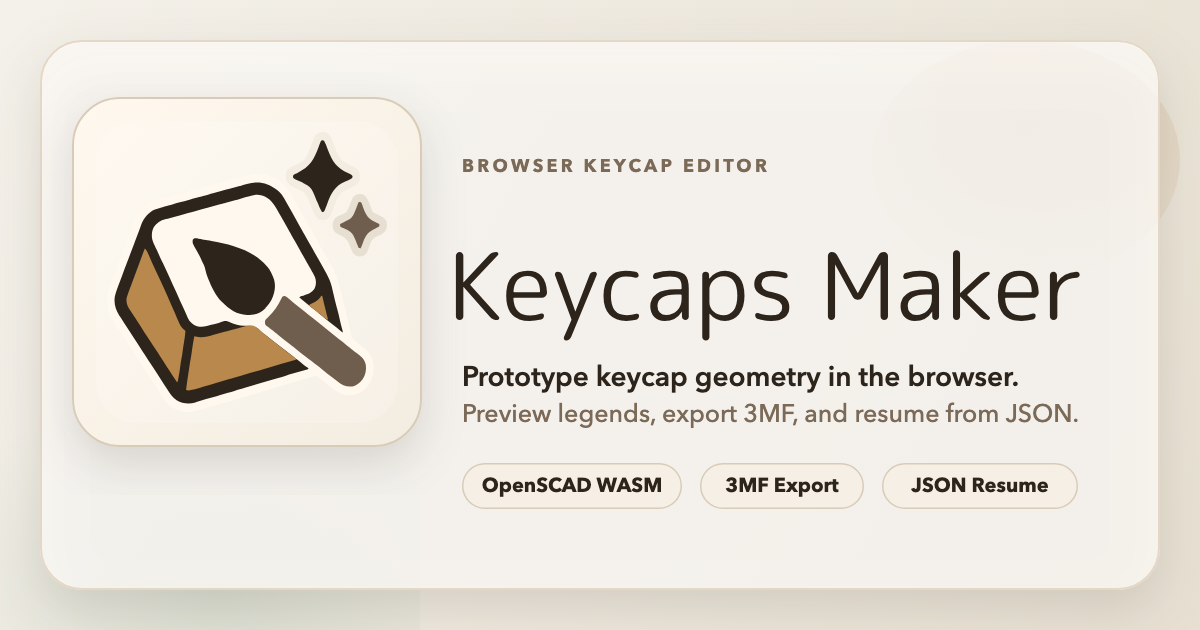
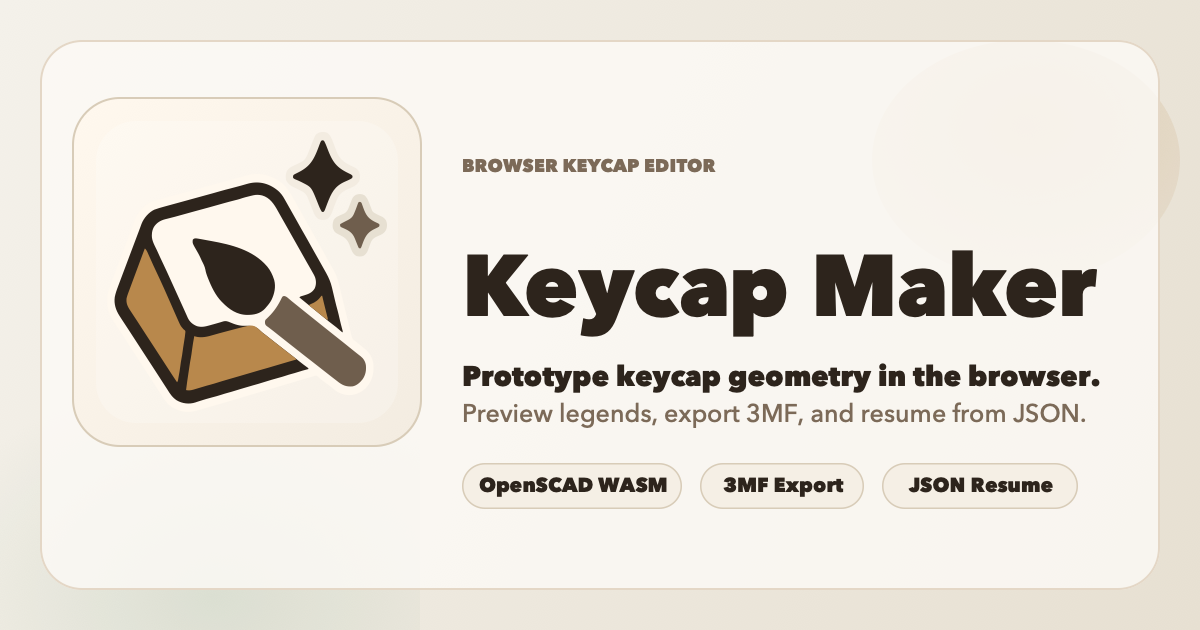
Rename project to Keycap Maker

diff --git a/index.html b/index.html
@@ -3,46 +3,46 @@
   <head>
     <meta charset="UTF-8" />
     <meta name="viewport" content="width=device-width, initial-scale=1.0" />
-    <title>Keycaps Maker</title>
+    <title>Keycap Maker</title>
     <meta
       name="description"
       content="GitHub Pages で配信するキーキャップ編集 Web アプリの実験基盤"
     />
-    <link rel="canonical" href="https://masashi-desu.github.io/Keycaps-Maker/" />
+    <link rel="canonical" href="https://masashi-desu.github.io/Keycap-Maker/" />
     <link rel="icon" type="image/svg+xml" href="/favicon.svg" />
     <meta property="og:locale" content="ja_JP" />
     <meta property="og:type" content="website" />
-    <meta property="og:site_name" content="Keycaps Maker" />
-    <meta property="og:title" content="Keycaps Maker" />
+    <meta property="og:site_name" content="Keycap Maker" />
+    <meta property="og:title" content="Keycap Maker" />
     <meta
       property="og:description"
       content="GitHub Pages で配信するキーキャップ編集 Web アプリの実験基盤"
     />
-    <meta property="og:url" content="https://masashi-desu.github.io/Keycaps-Maker/" />
+    <meta property="og:url" content="https://masashi-desu.github.io/Keycap-Maker/" />
     <meta
       property="og:image"
-      content="https://masashi-desu.github.io/Keycaps-Maker/og-card.png"
+      content="https://masashi-desu.github.io/Keycap-Maker/og-card.png"
     />
     <meta property="og:image:type" content="image/png" />
     <meta property="og:image:width" content="1200" />
     <meta property="og:image:height" content="630" />
     <meta
       property="og:image:alt"
-      content="左に新しい Keycaps Maker アイコン、右にサイト名と機能チップを配置したカード画像"
+      content="左に新しい Keycap Maker アイコン、右にサイト名と機能チップを配置したカード画像"
     />
     <meta name="twitter:card" content="summary_large_image" />
-    <meta name="twitter:title" content="Keycaps Maker" />
+    <meta name="twitter:title" content="Keycap Maker" />
     <meta
       name="twitter:description"
       content="GitHub Pages で配信するキーキャップ編集 Web アプリの実験基盤"
     />
     <meta
       name="twitter:image"
-      content="https://masashi-desu.github.io/Keycaps-Maker/og-card.png"
+      content="https://masashi-desu.github.io/Keycap-Maker/og-card.png"
     />
     <meta
       name="twitter:image:alt"
-      content="左に新しい Keycaps Maker アイコン、右にサイト名と機能チップを配置したカード画像"
+      content="左に新しい Keycap Maker アイコン、右にサイト名と機能チップを配置したカード画像"
     />
   </head>
   <body>

diff --git a/src/main.js b/src/main.js
@@ -15,7 +15,8 @@ const keycapBodyPreviewPath = "/outputs/keycap-body-preview.off";
 const keycapHomingPreviewPath = "/outputs/keycap-homing-preview.off";
 const keycapLegendPreviewPath = "/outputs/keycap-legend-preview.off";
 const keycap3mfPath = "keycap-preview.3mf";
-const EDITOR_DATA_KIND = "keycaps-maker/editor-params";
+const EDITOR_DATA_KIND = "keycap-maker/editor-params";
+const LEGACY_EDITOR_DATA_KINDS = new Set([EDITOR_DATA_KIND.replace("keycap-maker", "keycap" + "s-maker")]);
 const EDITOR_DATA_SCHEMA_VERSION = 3;
 const CHEVRON_ICON_URLS = Object.freeze({
   expanded: "https://cdn.jsdelivr.net/npm/bootstrap-icons@1.11.3/icons/chevron-up.svg",
@@ -1396,8 +1397,8 @@ function parseEditorDataPayload(payload) {
     throw new Error("編集データ JSON の形式が不正です。");
   }
 
-  if (payload.kind !== EDITOR_DATA_KIND) {
-    throw new Error("Keycaps Maker の編集データ JSON ではありません。");
+  if (payload.kind !== EDITOR_DATA_KIND && !LEGACY_EDITOR_DATA_KINDS.has(payload.kind)) {
+    throw new Error("Keycap Maker の編集データ JSON ではありません。");
   }
 
   if (payload.schemaVersion !== EDITOR_DATA_SCHEMA_VERSION) {

diff --git a/src/lib/keycap-scad-bundle.js b/src/lib/keycap-scad-bundle.js
@@ -1,5 +1,5 @@
 import keycapBaseScad from "../../scad/base/keycap.scad?raw";
-import keycapShellScad from "../../scad/modules/keycap_shell.scad?raw";
+import shellModuleScad from "../../scad/modules/keycap_shell.scad?raw";
 import homingBarScad from "../../scad/modules/homing_bar.scad?raw";
 import legendBlockScad from "../../scad/modules/legend_block.scad?raw";
 import stemMxScad from "../../scad/modules/stem_mx.scad?raw";
@@ -42,7 +42,7 @@ const KEYCAP_LEGEND_FONT_MAP = new Map(KEYCAP_LEGEND_FONTS.map((font) => [font.k
 
 const SCAD_FILES = [
   { path: "/scad/base/keycap.scad", content: keycapBaseScad },
-  { path: "/scad/modules/keycap_shell.scad", content: keycapShellScad },
+  { path: "/scad/modules/keycap_shell.scad", content: shellModuleScad },
   { path: "/scad/modules/homing_bar.scad", content: homingBarScad },
   { path: "/scad/modules/legend_block.scad", content: legendBlockScad },
   { path: "/scad/modules/stem_mx.scad", content: stemMxScad },

diff --git a/.codex/skills/keycap-maker-scad/SKILL.md b/.codex/skills/keycap-maker-scad/SKILL.md
@@ -1,9 +1,9 @@
 ---
-name: keycaps-maker-scad
-description: Extend and maintain Keycaps Maker's modular OpenSCAD assets under `scad/` and the browser parameter bridge that feeds them. Use when Codex needs to work on this repository's keycap-specific structure, including body/legend split, preview/export separation, `scad/base` vs `scad/modules` placement, presets, samples, or the `src/lib/keycap-scad-bundle.js` `-D` parameter mapping.
+name: keycap-maker-scad
+description: Extend and maintain Keycap Maker's modular OpenSCAD assets under `scad/` and the browser parameter bridge that feeds them. Use when Codex needs to work on this repository's keycap-specific structure, including body/legend split, preview/export separation, `scad/base` vs `scad/modules` placement, presets, samples, or the `src/lib/keycap-scad-bundle.js` `-D` parameter mapping.
 ---
 
-# Keycaps Maker Scad
+# Keycap Maker Scad
 
 ## Quick Start
 

diff --git a/.codex/skills/keycap-maker-scad/references/repo-conventions.md b/.codex/skills/keycap-maker-scad/references/repo-conventions.md
@@ -1,4 +1,4 @@
-# Keycaps Maker SCAD Conventions
+# Keycap Maker SCAD Conventions
 
 ## Project Constraints
 
@@ -61,8 +61,8 @@
 
 ## Relevant Repo Docs
 
-- `/Users/workSpace/Keycaps Maker/README.md`
-- `/Users/workSpace/Keycaps Maker/scad/README.md`
-- `/Users/workSpace/Keycaps Maker/docs/research/scad-design-guidelines.md`
-- `/Users/workSpace/Keycaps Maker/docs/specs/operations-guide.md`
-- `/Users/workSpace/Keycaps Maker/public/vendor/openscad/README.md`
+- `/Users/workSpace/Keycap Maker/README.md`
+- `/Users/workSpace/Keycap Maker/scad/README.md`
+- `/Users/workSpace/Keycap Maker/docs/research/scad-design-guidelines.md`
+- `/Users/workSpace/Keycap Maker/docs/specs/operations-guide.md`
+- `/Users/workSpace/Keycap Maker/public/vendor/openscad/README.md`

diff --git a/docs/architecture/overview.md b/docs/architecture/overview.md
@@ -2,7 +2,7 @@
 
 ## 現在のプロダクト範囲
 
-Keycaps Maker は、GitHub Pages で配信するクライアントサイド完結のキーキャップ編集アプリです。現在の主要機能は次のとおりです。
+Keycap Maker は、GitHub Pages で配信するクライアントサイド完結のキーキャップ編集アプリです。現在の主要機能は次のとおりです。
 
 - キーキャップ形状の編集
 - legend の文字列、書体、装飾、位置、高さ、埋め込み量の編集

diff --git a/docs/design/README.md b/docs/design/README.md
@@ -4,7 +4,7 @@
 
 ## 収録内容
 
-- `Keycaps_maker.pen`: Pencil の編集元ファイルです。デザイン変更時の正本として扱います
+- `Keycap_maker.pen`: Pencil の編集元ファイルです。デザイン変更時の正本として扱います
 - `assets/`: `.pen` が参照する関連アセットを保持します。現在のレンダリング画像 `keycap-render.png` もここに置きます
 
 ## 運用ルール

diff --git a/README.md b/README.md
@@ -1,4 +1,4 @@
-# Keycaps Maker
+# Keycap Maker
 
 GitHub Pages で配信する、キーキャップ編集 Web アプリのためのリポジトリです。
 
